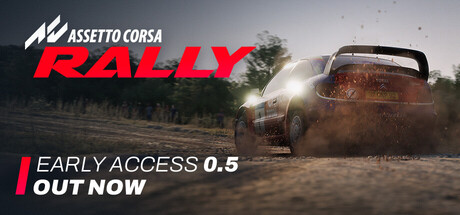
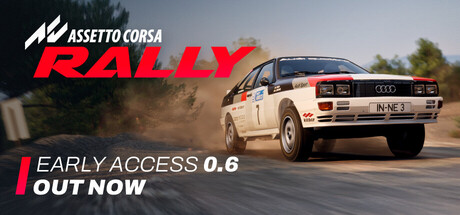
Update Steam header image, fix zero-tail telemetry recordings (#3)
* Update launcher thumbnail to current AC Rally Steam header image

* Stop recording once the session leaves Live/Replay

The shared memory block stays mapped and readable for as long as the
game process is open, but its physics fields go flat at zero once the
session isn't Live/Replay (main menu, post-stage results, paused with
no car loaded). Both recording loops treated any successful shared
memory read as real data, so leaving the recorder running past the end
of a run appended zeroed samples for however long it took to notice and
stop it — producing .ld/.rkyv exports whose back end was a dead
flatline instead of failing to load.

Skip the sample (same handling as a None read) whenever
`graphics.status` isn't Live/Replay.

diff --git a/src/main.rs b/src/main.rs
@@ -206,10 +206,30 @@ fn main() -> Result<(), Box<dyn std::error::Error>> {
                 );
                 last_statics_debug = std::time::Instant::now();
             }
+            // The shared memory block stays mapped (and readable) for as long
+            // as the game process is open, but its physics fields go flat at
+            // zero once the session leaves Live/Replay — main menu, post-stage
+            // results, or paused with no car loaded. Recording those samples
+            // anyway is what produced .ld exports whose second half (or more)
+            // was a dead flatline: the game stayed open and the recorder kept
+            // appending zeroed physics for however long it took the driver to
+            // notice and hit stop. Skip the sample instead, same as a `None`
+            // read, so only genuine driving ends up in the export.
+            if !data.graphics.status.is_active() {
+                consecutive_none = consecutive_none.saturating_add(1);
+                let sleep = if consecutive_none >= IDLE_THRESHOLD {
+                    idle_sleep
+                } else {
+                    poll_interval
+                };
+                std::thread::sleep(sleep);
+                continue;
+            }
             consecutive_none = 0;
+
             let record = PhysicsRecord::from_physics(&data.physics, recorder.elapsed().as_secs_f64());
             recorder.record(record)?;
-            
+
             // Record graphics at ~60 Hz (time-based) - only if enabled
             if record_graphics && last_graphics_capture.elapsed() >= graphics_interval {
                 let graphics_record = GraphicsRecord::from_graphics(&data.graphics);

diff --git a/src/motec_live.rs b/src/motec_live.rs
@@ -94,6 +94,22 @@ pub fn run(options: Options, running: &AtomicBool) -> Result<(), Box<dyn std::er
                 &mut last_statics_debug,
             );
 
+            // See the same check in `main.rs`'s record loop: the shared
+            // memory block stays readable for as long as the game is open,
+            // but its physics fields go flat at zero once the session
+            // leaves Live/Replay (menu, results, paused). Skip those
+            // samples so the exported .ld doesn't end in a dead flatline.
+            if !data.graphics.status.is_active() {
+                consecutive_none = consecutive_none.saturating_add(1);
+                let sleep = if consecutive_none >= IDLE_THRESHOLD {
+                    idle_sleep
+                } else {
+                    poll
+                };
+                std::thread::sleep(sleep);
+                continue;
+            }
+
             consecutive_none = 0;
             physics_records.push(PhysicsRecord::from_physics(
                 &data.physics,
